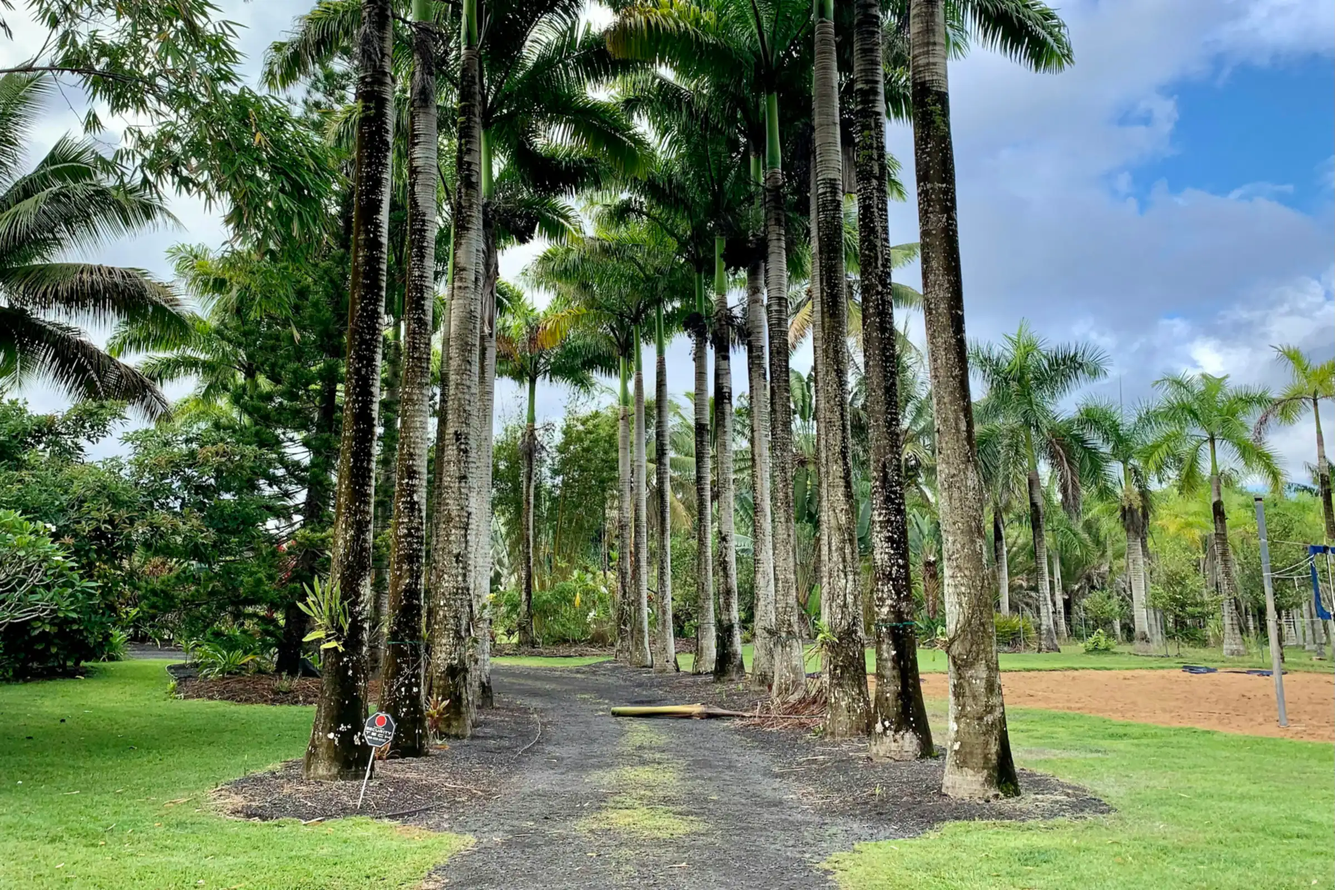
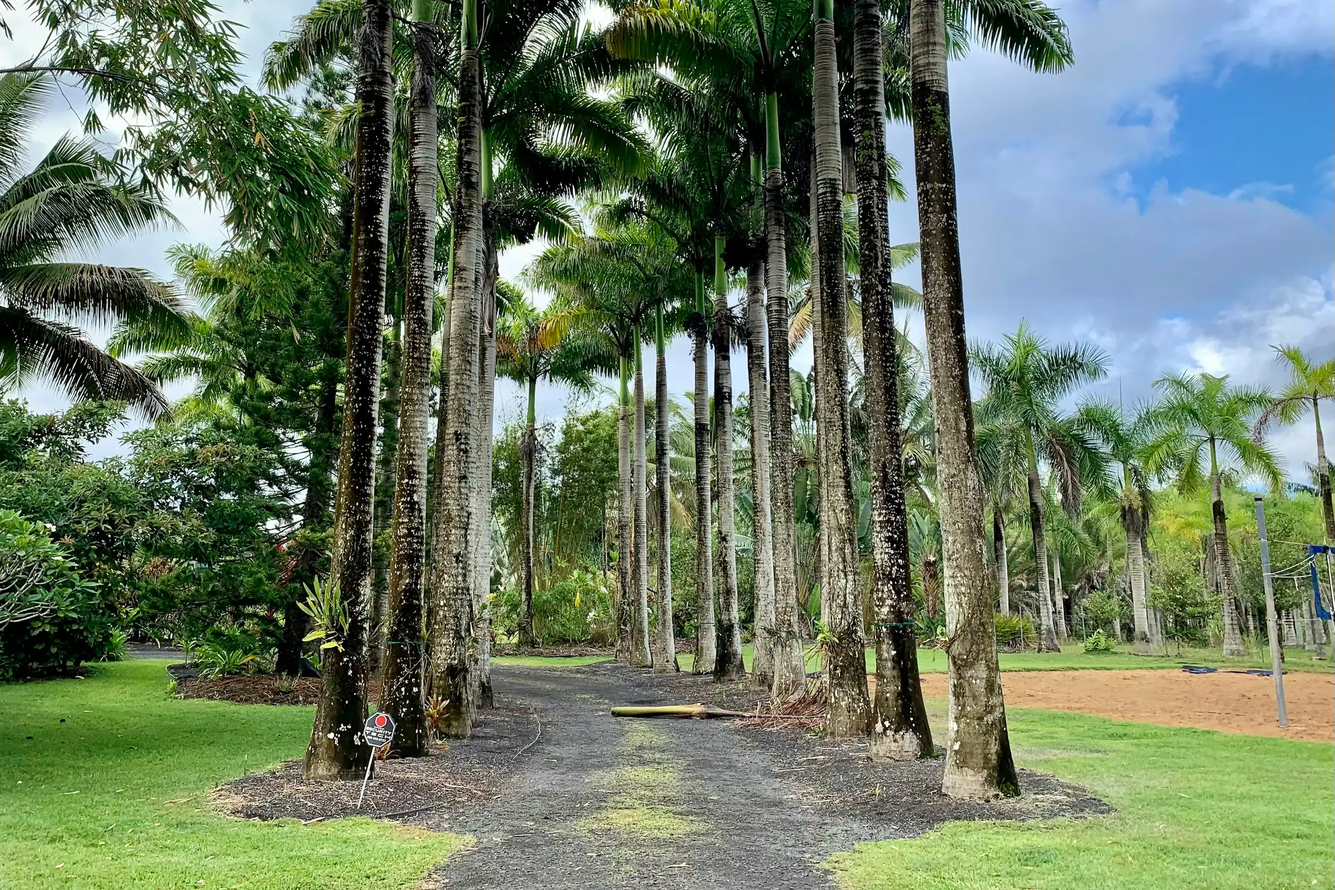
perf(web): quality-only 2400 files for palm-walk and oak-avenue, no blur
Controller ruling: no blur on a look's default photo (spec anti-goal: a
full-width hero that looks soft). The 2400 override is now quality only,
the lowest that shows no banding in the sky and no blocking in the foliage
when the 2400 file is viewed at 1:1 and 2x against the q72 file:
- palm-walk.2400.webp:  q50 -> 806,274 B (was 988,766 at q72, -18%).
- oak-avenue.2400.webp: q55 -> 696,598 B (was 844,418 at q72, -17%);
  at q50 its Spanish moss starts to smear, so it stops at 55.
The 1200 and 480 files never used the blur and rebuilt byte-identical;
dimensions stay 2400x1600. Rebuilt with
`pnpm exec tsx scripts/build-stock-photos.ts palm-walk oak-avenue`.

Revert-check: returning `{ quality: QUALITY }` for every file turns 1 test
red (the override test); 2 stay green.

diff --git a/scripts/build-stock-photos.ts b/scripts/build-stock-photos.ts
@@ -9,7 +9,7 @@
  *   pnpm exec tsx scripts/build-stock-photos.ts [id ...]
  *
  * Every file is WebP at quality 72, except the 2400 file of the two heaviest
- * look defaults (`ENCODING_2400`).
+ * look defaults (`QUALITY_2400`).
  *
  * Exit codes: 0 built, 1 a photo could not be processed as asked, 2 the build
  * could not run (a download failed, an unknown id, or a source narrower than
@@ -33,28 +33,24 @@ const QUALITY = 72;
 
 export interface StockPhotoEncoding {
   quality: number;
-  /** A Gaussian blur's sigma, applied after the resize and before encoding. */
-  soften?: number;
-  effort?: number;
-  smartSubsample?: boolean;
 }
 
 /**
  * The 2400 file of the two heaviest look defaults, the image their look's page
  * paints first. Dense foliage left them at ~989 KB (palm-walk) and ~844 KB
- * (oak-avenue) at quality 72, and quality alone cannot fix that (palm-walk is
- * still ~688 KB at 40), so they also take a light soften before encoding: ~490
- * KiB and ~456 KiB, the same framing and mean colour, no banding. The 1200 and
- * 480 files are already light and keep the default.
+ * (oak-avenue) at quality 72. Each takes the lowest quality that shows no
+ * banding in its sky and no blocking in its foliage, viewed at 1:1 and 2x;
+ * oak-avenue's moss starts to smear at 50, so it stops at 55. Never a blur: a
+ * look's default photo must not look soft. The 1200 and 480 files keep 72.
  */
-const ENCODING_2400: Partial<Record<StockPhotoId, StockPhotoEncoding>> = {
-  'palm-walk': { quality: 55, soften: 0.8, effort: 6, smartSubsample: true },
-  'oak-avenue': { quality: 60, soften: 0.8, effort: 6, smartSubsample: true },
+const QUALITY_2400: Partial<Record<StockPhotoId, number>> = {
+  'palm-walk': 50,
+  'oak-avenue': 55,
 };
 
 /** How a stock photo file is encoded. */
 export function stockPhotoEncoding(id: StockPhotoId, width: StockPhotoWidth): StockPhotoEncoding {
-  return (width === 2400 ? ENCODING_2400[id] : undefined) ?? { quality: QUALITY };
+  return { quality: (width === 2400 ? QUALITY_2400[id] : undefined) ?? QUALITY };
 }
 
 /** Where the crop is anchored when the default (`attention`) loses the subject. */
@@ -96,12 +92,10 @@ export async function buildStockPhotos(
       throw new BuildCouldNotRun(`${id}: source is ${meta.width ?? '?'}px wide, under 2400`);
     }
     for (const width of WIDTHS) {
-      const { soften, ...webp } = stockPhotoEncoding(id, width);
-      const resized = sharp(original).resize(width, (width * 2) / 3, {
-        fit: 'cover',
-        position: CROP_POSITION[id] ?? 'attention',
-      });
-      const out = await (soften ? resized.blur(soften) : resized).webp(webp).toBuffer();
+      const out = await sharp(original)
+        .resize(width, (width * 2) / 3, { fit: 'cover', position: CROP_POSITION[id] ?? 'attention' })
+        .webp(stockPhotoEncoding(id, width))
+        .toBuffer();
       // stockPhotoSrc is `/site-looks/<file>`; only the file name is ours to join.
       await writeFile(join(outDir, stockPhotoSrc(id, width).replace('/site-looks/', '')), out);
     }

diff --git a/scripts/__tests__/build-stock-photos.test.ts b/scripts/__tests__/build-stock-photos.test.ts
@@ -24,8 +24,9 @@ describe('stockPhotoEncoding', () => {
   it('gives the two heaviest look defaults a lighter 2400 file, and leaves their smaller files alone', () => {
     // Dense foliage: at quality 72 their 2400 files were ~989 KB and ~844 KB, on
     // the image a look's page paints first.
-    expect(stockPhotoEncoding('palm-walk', 2400)).toEqual({ quality: 55, soften: 0.8, effort: 6, smartSubsample: true });
-    expect(stockPhotoEncoding('oak-avenue', 2400)).toEqual({ quality: 60, soften: 0.8, effort: 6, smartSubsample: true });
+    // Quality only, never a blur: a look's default photo must not look soft.
+    expect(stockPhotoEncoding('palm-walk', 2400)).toEqual({ quality: 50 });
+    expect(stockPhotoEncoding('oak-avenue', 2400)).toEqual({ quality: 55 });
     expect(stockPhotoEncoding('palm-walk', 1200)).toEqual({ quality: 72 });
     expect(stockPhotoEncoding('oak-avenue', 480)).toEqual({ quality: 72 });
   });
